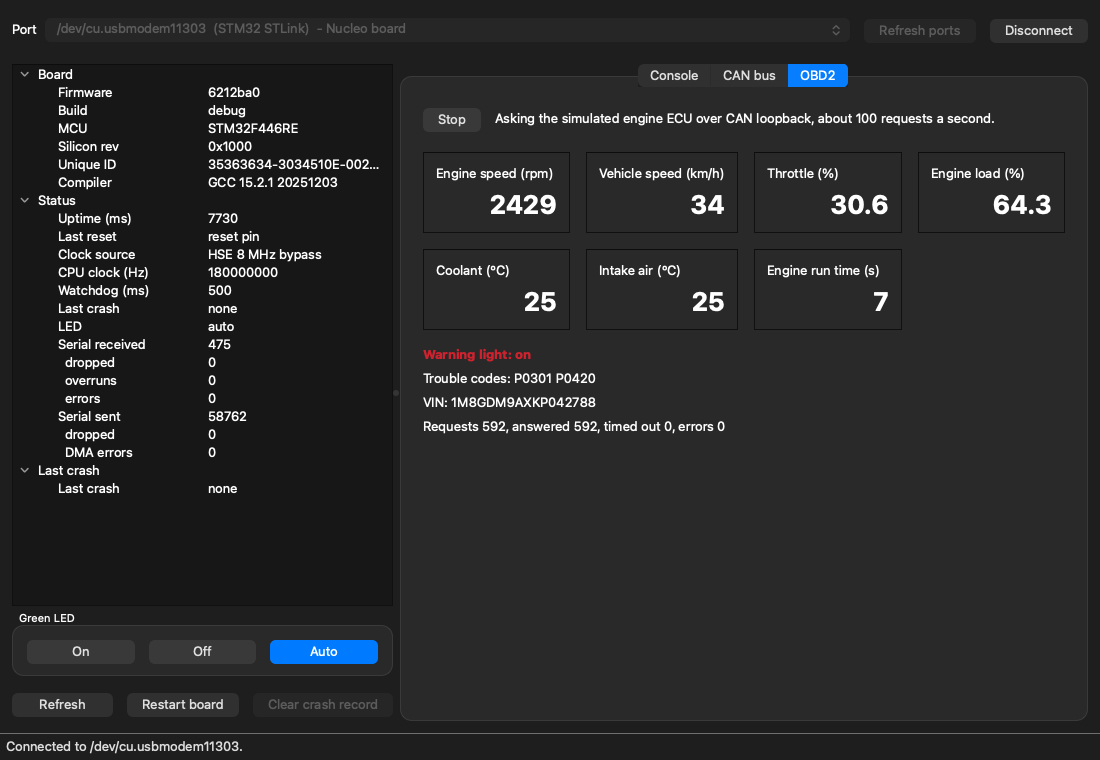
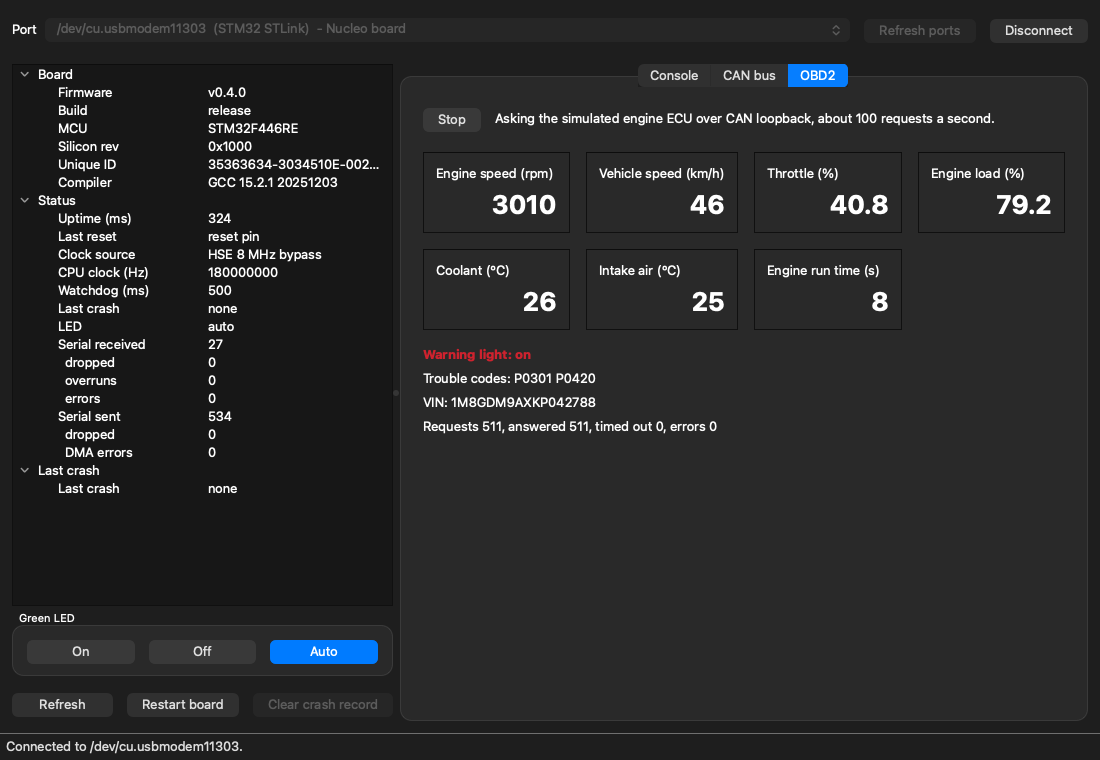
docs: screenshots from v0.4.0, and the script that takes them
The console screenshot predated the tabs, and all three showed a commit
hash instead of a version. Retake them from the v0.4.0 tag: the console
from the Debug build (crash bus is debug-only), the CAN and OBD2 tabs
from the Release build.

scripts/screenshots.py drives the real window against the board and
waits for each expected state with a deadline instead of fixed delays.

diff --git a/scripts/screenshots.py b/scripts/screenshots.py
@@ -1,0 +1,140 @@
+#!/usr/bin/env python3
+"""Take the desktop app's screenshots in docs/images/ from a connected board.
+
+Drives the real window: clicks its buttons, then waits until the widgets show
+the expected state (or a deadline passes) before grabbing the window. Fixed
+delays are not used: on macOS, Qt timers sometimes fired all at once.
+
+Needs the laptop tool with the desktop app (`pip install -e "host[gui]"`).
+Close any serial terminal first: only one program can hold the port.
+
+Usage:
+    python3 scripts/screenshots.py [--port PORT] [--out DIR] [console] [can] [obd]
+
+console runs `crash bus`, so it needs a Debug build; can and obd work with
+either build. With no names, all three are taken.
+"""
+
+from __future__ import annotations
+
+import argparse
+import sys
+import time
+from collections.abc import Callable
+from pathlib import Path
+
+from obdsniff.gui.window import MainWindow
+from obdsniff.gui.worker import DeviceWorker
+from PySide6.QtWidgets import QApplication
+
+ROOT = Path(__file__).resolve().parents[1]
+POLL_S = 0.1  # how often the app polls the board when it runs normally
+# About 2.4 s at full load at 500 kbit/s: long enough for the once-a-second
+# rate display to show the bus rate.
+CAN_TEST_FRAMES = 10_000
+OBD_REQUESTS = 500  # about 5 s of the tester
+SHOTS = ("console", "can", "obd")
+
+
+class Shooter:
+    def __init__(self, port: str | None, out: Path) -> None:
+        self.app = QApplication.instance() or QApplication(sys.argv[:1])
+        # The worker stays on this thread, so waiting is a plain loop of
+        # poll() and processEvents() rather than a second thread.
+        self.worker = DeviceWorker()
+        self.window = MainWindow(self.worker, port)
+        self.out = out
+
+    def wait_until(self, what: str, done: Callable[[], bool], timeout: float = 20.0) -> None:
+        deadline = time.monotonic() + timeout
+        while not done():
+            if time.monotonic() > deadline:
+                raise TimeoutError(f"timed out waiting for {what}")
+            self.worker.poll()
+            self.app.processEvents()
+            time.sleep(POLL_S)
+        self.app.processEvents()
+
+    def save(self, name: str) -> None:
+        path = self.out / name
+        self.window.grab().save(str(path))
+        print(f"saved {path.relative_to(ROOT) if path.is_relative_to(ROOT) else path}")
+
+    def connect(self) -> None:
+        self.window.show()
+        self.window.connect_button.click()
+        self.wait_until("the connection", lambda: self.window.connect_button.text() == "Disconnect")
+
+    def type_line(self, line: str) -> None:
+        self.window.console_input.setText(line)
+        self.window.console_input.returnPressed.emit()
+
+    def console(self) -> None:
+        """`help`, then a deliberate crash: the board restarts and reports it."""
+        self.window.tabs.setCurrentIndex(0)
+        self.type_line("help")
+        self.wait_until("the help text", lambda: "crash bus" in self.window.console_text())
+        self.type_line("crash bus")
+        self.wait_until(
+            "the crash report",
+            lambda: self.window.info_value("Last crash", "Last crash") == "BusFault",
+        )
+        self.save("desktop-app.png")
+
+    def can(self) -> None:
+        """Loopback at 500 kbit/s and a run of numbered test frames."""
+        panel = self.window.can_panel
+        self.window.tabs.setCurrentWidget(panel)
+        panel.start_button.click()
+        self.wait_until("CAN loopback", lambda: panel.test_button.isEnabled())
+        panel.count_box.setValue(CAN_TEST_FRAMES)
+        panel.test_button.click()
+        self.wait_until("the test frames", lambda: panel.total >= CAN_TEST_FRAMES)
+        self.save("desktop-app-can.png")
+        panel.start_button.click()  # CAN off again
+        self.wait_until("CAN off", lambda: not panel.test_button.isEnabled())
+
+    def obd(self) -> None:
+        """The board's OBD2 tester against its simulated engine ECU."""
+        panel = self.window.obd_panel
+
+        def requests() -> int:
+            text = panel.counters_label.text()  # "Requests 592, answered 592, ..."
+            return int(text.split(",")[0].split()[-1])
+
+        self.window.tabs.setCurrentWidget(panel)
+        panel.start_button.click()
+        self.wait_until("OBD2 replies", lambda: requests() >= OBD_REQUESTS)
+        self.save("desktop-app-obd.png")
+        panel.start_button.click()
+        self.wait_until("the tester to stop", lambda: panel.start_button.text() == "Start")
+        self.worker.can_off()
+
+    def close(self) -> None:
+        self.worker.close_port()  # hands the board back in interactive mode
+        self.window.close()
+
+
+def main() -> int:
+    parser = argparse.ArgumentParser(description=__doc__.splitlines()[0])
+    parser.add_argument("--port", help="serial port (default: find the board)")
+    parser.add_argument("--out", type=Path, default=ROOT / "docs" / "images")
+    parser.add_argument("shots", nargs="*", metavar="SHOT", help="console, can, obd (default: all)")
+    args = parser.parse_args()
+    shots = args.shots or list(SHOTS)
+    unknown = sorted(set(shots) - set(SHOTS))
+    if unknown:
+        parser.error(f"unknown screenshot: {', '.join(unknown)} (choose from {', '.join(SHOTS)})")
+
+    shooter = Shooter(args.port, args.out)
+    try:
+        shooter.connect()
+        for shot in shots:
+            getattr(shooter, shot)()
+    finally:
+        shooter.close()
+    return 0
+
+
+if __name__ == "__main__":
+    sys.exit(main())

diff --git a/host/README.md b/host/README.md
@@ -119,7 +119,7 @@ pip install -e "host[gui]"         # adds PySide6 (Qt)
 obdsniff gui                       # or: obdsniff --port sim gui
 ```
 
-![The desktop app connected to the board, after a deliberate crash](../docs/images/desktop-app.png)
+![The desktop app connected to the board: the command list, then a deliberate crash, recorded and reported after the restart](../docs/images/desktop-app.png)
 
 Pick the port (the Nucleo is found and selected automatically; the simulator is always listed)
 and press **Connect**. The left side shows the board's version, status and last crash, and has
@@ -131,14 +131,14 @@ The **CAN bus** tab starts and stops loopback at a chosen bit rate, sends test f
 shows the newest frames as they arrive, with counts of frames received, frames per second, frames
 lost and damaged packets:
 
-![The CAN tab after 4,000 test frames in loopback, none lost](../docs/images/desktop-app-can.png)
+![The CAN tab after 10,000 test frames in loopback, none lost](../docs/images/desktop-app-can.png)
 
 The **OBD2** tab starts the board's OBD2 tester (and CAN loopback, if it is off) and shows what it
 reads from the simulated engine ECU as it changes: engine speed, vehicle speed, throttle, engine
 load, coolant and intake temperature and run time, the warning light, stored trouble codes, the
 VIN, and the request counters. The tab also follows a tester started from the console.
 
-![The OBD2 tab on the board: 592 requests in about 6 seconds, every one answered](../docs/images/desktop-app-obd.png)
+![The OBD2 tab on the board: 511 requests in about 5 seconds, every one answered](../docs/images/desktop-app-obd.png)
 
 The connection to the board runs on its own thread, so the window stays responsive even while the
 board restarts or thousands of frames a second stream in. When the app closes, the board is

diff --git a/README.md b/README.md
@@ -83,7 +83,7 @@ yet; see [Project status](#project-status).
 | Command-line tool | `obdsniff obd watch`, `obdsniff monitor`, `obdsniff can test`, `obdsniff shell`, ... | Watching and logging traffic, scripting, automated checks |
 | Serial terminal | Open the board's USB serial port and type `help` | Using the device with no software installed |
 
-![The desktop app's CAN tab: 4,000 test frames captured on the board, none lost](docs/images/desktop-app-can.png)
+![The desktop app's CAN tab: 10,000 test frames captured on the board at 4,115 a second, none lost](docs/images/desktop-app-can.png)
 
 ![The desktop app's OBD2 tab: live data, trouble codes and VIN read on the board from its simulated engine computer](docs/images/desktop-app-obd.png)
 
